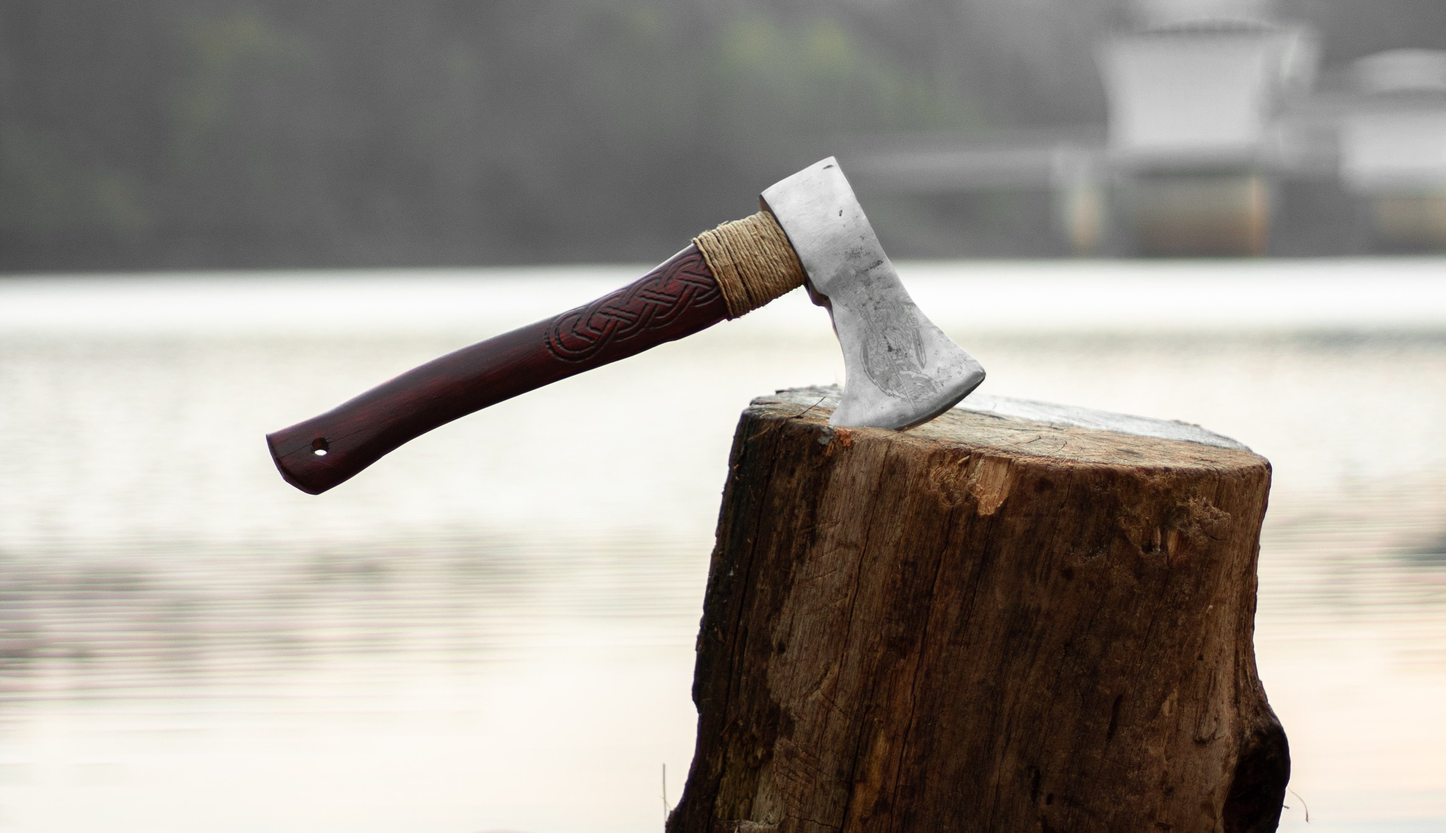
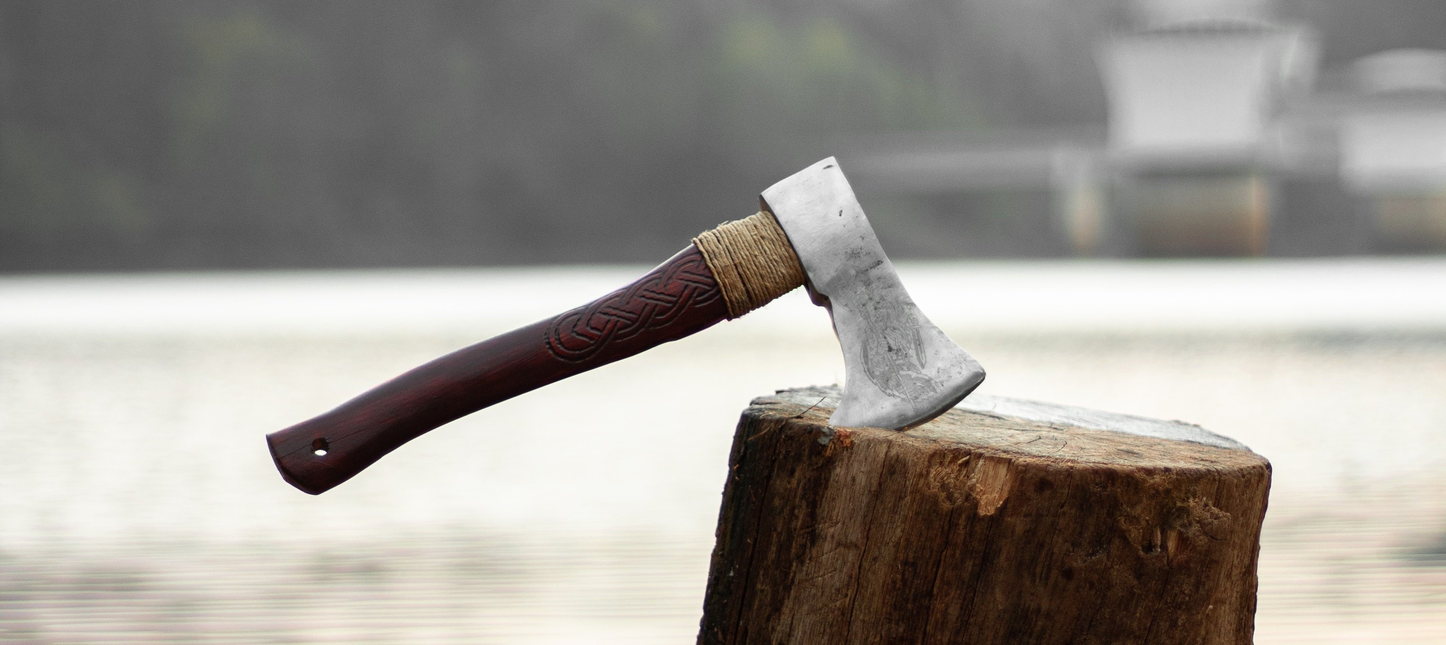
new

diff --git a/css/style.css b/css/style.css
@@ -6,10 +6,10 @@
 
 .carouselimg{
   height: 400px;
-  width: 500px;
+  object-fit: cover;
 }
 .carouselcustom{
-  padding-top: 5rem;
+  padding-top: 6rem;
 }
 
 html {
